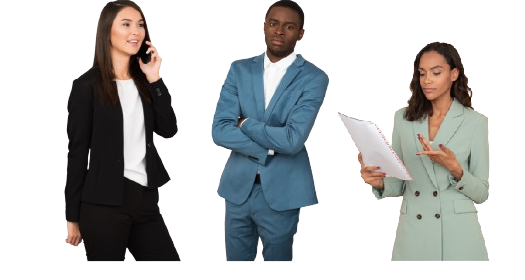
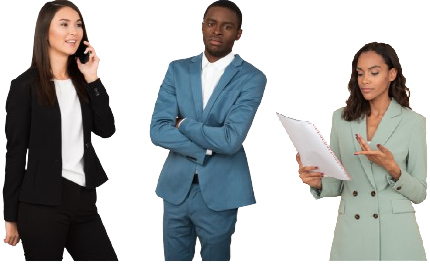
atualização do index,politica de privacidade,  ajustes no top e height de contatos e vonlutário

diff --git a/index.html b/index.html
@@ -17,22 +17,23 @@
         </ul>
 
     </nav>
-    <header id="container">
-        <div class="container-image">
-            <img class="container-image" src="./img/foto-lado-lado.png" alt="duas pessoas de lado a lado">
-        </div>
-
-        <div class="text-container">
+    <header class="container">
+        <div>
             <img class="logo-projeto-RS" src="./img/logo-projeto-RS.png" alt="Logo do projeto refugio solidario">
-            
-    
-    <h1>Bem-vindo (a)</h1>
-    <p>
-        Estamos ONLINE de Segunda a Sábado das 19h às 23h.
-        Aqui, você será atendido por um voluntário especialmente treinado para esse fim, isto é, sem julgamentos, com respeito e sigilo absoluto.
-        <div><a class="a-href" href="https://chat.whatsapp.com/EjysNylrMnWJBfVH6kDqSL" target="_blank"><img class="logo-whatsapp" src="./img/whatsapp-dark.png" alt="logo-whatsapp">Fale Conosco</a>
+        
+        <div class="text-container">
+         <h1>Bem-vindo (a)</h1>
+            <p>
+                Estamos ONLINE de Segunda a Sábado das 19h às 23h.
+                Aqui, você será atendido por um voluntário especialmente treinado para esse fim, isto é, sem julgamentos, com respeito e sigilo absoluto.
+            </p>
+            <div>
+                <a class="a-href" href="https://chat.whatsapp.com/EjysNylrMnWJBfVH6kDqSL" target="_blank"><img class="logo-whatsapp" src="./img/whatsapp-dark.png" alt="logo-whatsapp">Fale Conosco</a>
+            <div>
+                <img class="container-image" src="./img/foto-lado-lado.png" alt="duas pessoas de lado a lado">
+            </div>
         </div>
-    </p>
+        </div>
         </div>
 </header>
 <main>
@@ -102,8 +103,8 @@
     
     
         <div class="img-apoio">
-            <img class="tam-img-apoio" src="./img/mensagens.png" alt="ícon de messagens">  
-            <img class="tam-img-apoio1" src="./img/maos-dadas.png">
+            <img class="img-icon-message" src="./img/mensagens.png" alt="ícon de messagens">  
+            <img class="img-maos-dadas" src="./img/maos-dadas.png">
         </div>
         
 
@@ -144,13 +145,13 @@
         </div>
         </div>
     <div>
-        <h1><strong>QUEM SOMOS <br>O REFÚGIO SOLIDÁRIO</strong></h1>
-        <h3><strong>Refúgio Solidário</strong></h3>
+        <h1>QUEM SOMOS O REFÚGIO SOLIDÁRIO</h1>
+        <h3>Refúgio Solidário</h3>
         <p>  Somos uma rede de apoio  dedicada a apoiar as pessoas do Rio Grande do Sul que foram afetadas pela tragédia.</p>
     </div>
     <div>
         <h3>FAÇA PARTE DA NOSSA EQUIPE!</h3>
-        <h1><strong>VOLUNTARIADO</strong></h1>
+        <h1>VOLUNTARIADO</h1>
         <P>O voluntário do Refúgio Solidário doa o seu tempo – 4 horas semanais – para conversar com outra pessoa pelo seu computador, celular, tablet ou notebook, de forma anônima, sigilosa, sem julgamentos ou críticas.</P>
         <h2>Requisitos para se tornar um voluntário do Refúgio Solidário</h2>
 
@@ -172,13 +173,14 @@
     </div>
     </div>
     </section>
-    <section style="background-color: #FFF8E1; height: 350px; margin-bottom: 10px;">Precisa de Ajuda?
+    <section>Precisa de Ajuda?
         <h2>Estamos aqui para ajudar!</h2>
         <p>Você será atendido por um voluntário especialmente treinado para esse fim, isto é, sem perguntas, com respeito e sigilo absoluto.
         </p>
+        <img src="./img/homem-mulheres4.png" alt="mulher com papel em maos lendo">
         <a class="a-href" href="https://chat.whatsapp.com/EjysNylrMnWJBfVH6kDqSL" target="_blank" ><img src="./img/whatsapp-dark.png" class="logo-whatsapp" >Entre em contato conosco</a>
-        <img src="./img/mulher-lendo.png" alt="mulher com papel em maos lendo" width="170" align="right">
-        <img src="./img/homem-mulher.png" alt="mulher ao telefone homem de braços cruzados" width="200" height="202.8" align="right">
+    
+    
     </section>
 </main>
     <footer class="footer-index">

diff --git a/index.css b/index.css
@@ -13,7 +13,7 @@
     align-items: center;
     justify-content: center;
     font-family: Georgia, 'Times New Roman', Times, serif;
-    background: #fdda3f;
+    background: #fff8b1;
     border-radius: 10px;
     width: 12rem;
     padding: 0.5rem;
@@ -21,6 +21,7 @@
     color: black;
     gap: 5px;
     font-weight: 700;
+    font-family:Arial, sans-serif;
 }
 
 .a-href:hover {
@@ -49,7 +50,7 @@ nav {
     color: #333;
     font-weight: bold;
     padding: .4rem;
-    
+    font-family:Arial, sans-serif;
 }
 
 .links:hover {
@@ -68,24 +69,52 @@ nav {
     margin-top: 5px;   
 }
 
+
 /* configuração do header */
-#container {
+.container {
+    position: relative;
     display: flex;
-    justify-content: center;
-    align-items: center;
+    flex-direction: column;
+    align-items: flex-start;
+    padding: 20px;
     height: 100vh;
     background: #ffe96f;
-    padding: 1rem;
-    background: #ffa704;
     margin-top: .1rem;
-    margin-bottom: .2rem;    
+
 }
+
+
+.text-container {
+    padding: 20px;
+    border-radius: 5px;
+    z-index: 1;
+    margin-left: 5%;
+    margin-right: 50%;
+}
+
+.text-container h1 {
+    margin: 10px;
+    font-size: 2em;
+}
+
+.text-container p {
+    margin: 10px;
+    font-size: 1.2em;
+}
+
+.container-image {
+    position: absolute;
+    top: 0;
+    right: 0;
+    height: 100vh;
+    background-size: cover;
+    background-repeat: no-repeat;
+    z-index: 0;
+    opacity: 0.6;
+}
+
 header {
     background: #fac000;
-    height: 100vh;
-}
-header img {
-    height: 100px;
 }
 
 /* definição padrão para o tamanho de todas as logos do whatsapp */
@@ -98,7 +127,6 @@ header img {
     display: flex;
     justify-content: space-around;
     padding: 40px;
-    
 }
 
 .resumo-atendimento {
@@ -107,8 +135,7 @@ header img {
     padding: 20px;
     text-align: center;
     width: 22%;
-    box-shadow: 0 4px 8px rgba(0, 0, 0, 0.1);
-    
+    box-shadow: 0 4px 8px rgba(0, 0, 0, 0.1);   
 }
 
 
@@ -116,8 +143,6 @@ header img {
     transform: scale(1.2);
     transition: transform 0.5s ease;
 }
-
-
 
 .resumo-atendimento h2 {
     font-size: 2rem;
@@ -199,19 +224,19 @@ header img {
 
 .img-apoio {
     display: flex;
-    justify-content: space-around;
+    justify-content: center;
     flex-direction: row-reverse;
 }
 
-.tam-img-apoio {
+.img-icon-message {
     height: 12rem;
-    margin-left: 5rem;
+    margin-left: 1rem;
 }
 
-.tam-img-apoio1 {
+.img-maos-dadas {
     height: 30rem;
-    transform: translate(20%);
     opacity: 0.6;
+    margin-left: 15%;
     margin-top: 2rem;
     margin-bottom: 2rem;
 }

diff --git a/sejavoluntario.css b/sejavoluntario.css
@@ -97,7 +97,7 @@ nav ul a  {
 
 .div-ajuda{
   background: linear-gradient(to right, #fff8b1, #FFA000);
-  padding:3px;
+  padding:1rem;
   margin-bottom:40px;
   margin-top: 80px;
 
@@ -151,15 +151,15 @@ nav ul a  {
 
 }
 
+
+/* cris aqui alterei porque eu removi o fundo da imagem. */
 .img-pessoas-ajuda {
     position: absolute;
-    top:58%; 
+    top:50%; 
     right:0;
     transform: translateY(-50%);
     z-index: 1;
-    margin-bottom:20px;
-    width:449px;
-    height:auto;
+    height:250px;
     max-width: 100%;
   }
   

diff --git a/contato.css b/contato.css
@@ -105,7 +105,7 @@ body {
 
 .div-ajuda{
   background: linear-gradient(to right, #fff8b1, #fada79);
-  padding:3px;
+  padding:1rem;
   margin-bottom:40px;
 
   }
@@ -158,14 +158,14 @@ body {
 
 }
 
+/* Cris aqui também tive que mudar só o top de 57 para 55, pouca coisa */
 .img-pessoas-ajuda {
     position: absolute;
-    top:57%; 
+    top:55%; 
     right:0;
     transform: translateY(-50%);
     z-index: 1;
     margin-bottom:20px;
-    width: 500px;
     height:auto;
     max-width: 100%;
   }
